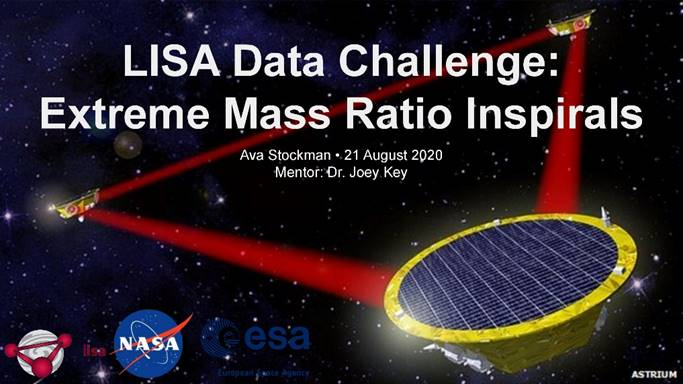
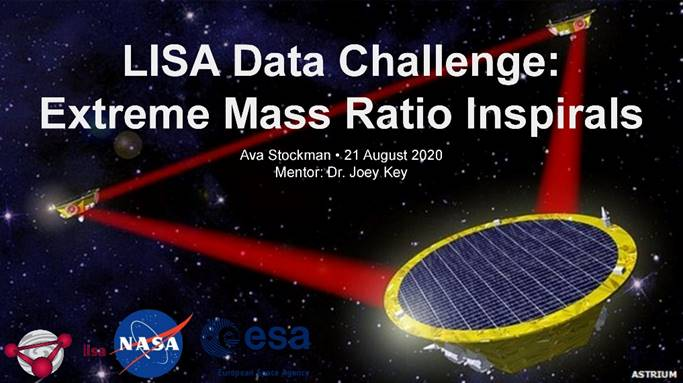
Add files via upload

diff --git a/Physical-Sciences_REU/index.htm b/Physical-Sciences_REU/index.htm
@@ -25,9 +25,9 @@ w\:* {behavior:url(#default#VML);}
   <o:Template>Normal</o:Template>
   <o:LastAuthor>Isabelle Heier</o:LastAuthor>
   <o:Revision>2</o:Revision>
-  <o:TotalTime>66</o:TotalTime>
-  <o:Created>2020-08-20T00:39:00Z</o:Created>
-  <o:LastSaved>2020-08-20T00:39:00Z</o:LastSaved>
+  <o:TotalTime>69</o:TotalTime>
+  <o:Created>2020-08-20T00:46:00Z</o:Created>
+  <o:LastSaved>2020-08-20T00:46:00Z</o:LastSaved>
   <o:Pages>1</o:Pages>
   <o:Words>393</o:Words>
   <o:Characters>2242</o:Characters>
@@ -1390,8 +1390,7 @@ font-family:"Times New Roman",serif;mso-fareast-font-family:"Times New Roman"'><
  <tr style='mso-yfti-irow:10;height:1.25pt'>
   <td width=1033 colspan=6 style='width:774.55pt;background:#D7D1FE;padding:
   0in 5.4pt 0in 5.4pt;height:1.25pt'>
-  <p class=MsoNormal align=center style='margin-top:3.0pt;margin-right:0in;
-  margin-bottom:3.0pt;margin-left:0in;text-align:center;line-height:normal'><span
+  <p class=MsoNormal align=center style='text-align:center;line-height:normal'><span
   style='mso-bookmark:_Hlk48552209'><span style='font-size:14.0pt;font-family:
   "Helvetica Neue";mso-fareast-font-family:"Helvetica Neue";mso-bidi-font-family:
   "Helvetica Neue";color:black;mso-color-alt:windowtext;background:lightyellow;
@@ -1627,8 +1626,7 @@ font-family:"Times New Roman",serif;mso-fareast-font-family:"Times New Roman"'><
  <tr style='mso-yfti-irow:20;height:1.25pt'>
   <td width=1033 colspan=6 style='width:774.55pt;background:#D7D1FE;padding:
   0in 5.4pt 0in 5.4pt;height:1.25pt'>
-  <p class=MsoNormal align=center style='margin-top:3.0pt;margin-right:0in;
-  margin-bottom:3.0pt;margin-left:0in;text-align:center;line-height:normal'><span
+  <p class=MsoNormal align=center style='text-align:center;line-height:normal'><span
   style='mso-bookmark:_Hlk48552209'><span style='font-size:14.0pt;font-family:
   "Helvetica Neue";mso-fareast-font-family:"Helvetica Neue";mso-bidi-font-family:
   "Helvetica Neue";color:black;mso-color-alt:windowtext;background:lightyellow;
@@ -1739,16 +1737,15 @@ font-family:"Times New Roman",serif;mso-fareast-font-family:"Times New Roman"'><
  <tr style='mso-yfti-irow:25;height:1.25pt'>
   <td width=1033 colspan=6 style='width:774.55pt;background:#D7D1FE;padding:
   0in 5.4pt 0in 5.4pt;height:1.25pt'>
-  <p class=MsoNormal align=center style='margin-top:3.0pt;margin-right:0in;
-  margin-bottom:3.0pt;margin-left:0in;text-align:center;line-height:normal'><span
+  <p class=MsoNormal align=center style='text-align:center;line-height:normal'><span
   style='mso-bookmark:_Hlk48552209'><span style='font-size:14.0pt;font-family:
   "Helvetica Neue";mso-fareast-font-family:"Helvetica Neue";mso-bidi-font-family:
   "Helvetica Neue";color:black;mso-color-alt:windowtext;background:lightyellow;
   mso-ansi-language:EN-US;mso-no-proof:yes'><!--[if gte vml 1]><v:shape id="Picture_x0020_8"
-   o:spid="_x0000_i1028" type="#_x0000_t75" style='width:512.25pt;height:4in;
+   o:spid="_x0000_i1028" type="#_x0000_t75" style='width:512.25pt;height:287.25pt;
    visibility:visible;mso-wrap-style:square'>
-   <v:imagedata src="index_files/image015.jpg" o:title=""/>
-  </v:shape><![endif]--><![if !vml]><img border=0 width=683 height=384
+   <v:imagedata src="index_files/image015.jpg" o:title="" cropbottom="164f"/>
+  </v:shape><![endif]--><![if !vml]><img border=0 width=683 height=383
   src="index_files/image016.jpg" v:shapes="Picture_x0020_8"><![endif]></span></span><span
   style='mso-bookmark:_Hlk48552209'></span><span style='mso-bookmark:_Hlk48552209'><span
   style='font-size:14.0pt;font-family:"Helvetica Neue";mso-fareast-font-family:
@@ -1935,8 +1932,7 @@ font-family:"Times New Roman",serif;mso-fareast-font-family:"Times New Roman"'><
  <tr style='mso-yfti-irow:33;height:1.25pt'>
   <td width=1033 colspan=6 style='width:774.55pt;background:#D7D1FE;padding:
   0in 5.4pt 0in 5.4pt;height:1.25pt'>
-  <p class=MsoNormal align=center style='margin-top:3.0pt;margin-right:0in;
-  margin-bottom:3.0pt;margin-left:0in;text-align:center;line-height:normal'><span
+  <p class=MsoNormal align=center style='text-align:center;line-height:normal'><span
   style='mso-bookmark:_Hlk48552209'><span style='font-size:14.0pt;font-family:
   "Helvetica Neue";mso-fareast-font-family:"Helvetica Neue";mso-bidi-font-family:
   "Helvetica Neue";color:black;mso-color-alt:windowtext;background:lightyellow;
@@ -1960,15 +1956,15 @@ font-family:"Times New Roman",serif;mso-fareast-font-family:"Times New Roman"'><
   line-height:normal'><span style='mso-bookmark:_Hlk48552209'><span
   style='font-size:14.0pt;font-family:"Helvetica Neue";mso-fareast-font-family:
   "Helvetica Neue";mso-bidi-font-family:"Helvetica Neue";color:black;
-  mso-color-alt:windowtext;background:lightyellow;mso-ansi-language:EN-US'>Faculty
-  Advisor:</span></span><span style='mso-bookmark:_Hlk48552209'><span
-  style='font-size:14.0pt;font-family:"Helvetica Neue";mso-fareast-font-family:
-  "Helvetica Neue";mso-bidi-font-family:"Helvetica Neue";background:lightyellow;
-  mso-ansi-language:EN-US'><o:p></o:p></span></span></p>
+  mso-color-alt:windowtext;background:#D7D1FE;mso-ansi-language:EN-US'>Faculty
+  Advisor:</span></span><span style='mso-bookmark:_Hlk48552209'></span><span
+  style='mso-bookmark:_Hlk48552209'><span style='font-size:14.0pt;font-family:
+  "Helvetica Neue";mso-fareast-font-family:"Helvetica Neue";mso-bidi-font-family:
+  "Helvetica Neue";background:lightyellow;mso-ansi-language:EN-US'><o:p></o:p></span></span></p>
   <p class=MsoNormal align=center style='text-align:center;line-height:normal'><span
   style='mso-bookmark:_Hlk48552209'><span style='font-size:14.0pt;font-family:
   "Helvetica Neue";mso-fareast-font-family:"Helvetica Neue";mso-bidi-font-family:
-  "Helvetica Neue";color:black;mso-color-alt:windowtext;background:lightyellow;
+  "Helvetica Neue";color:black;mso-color-alt:windowtext;background:#D7D1FE;
   mso-ansi-language:EN-US'>Dr. Joey Key, UWB School of STEM</span></span><span
   style='mso-bookmark:_Hlk48552209'></span><span style='mso-bookmark:_Hlk48552209'><span
   style='font-size:16.0pt;font-family:"Times New Roman",serif;mso-fareast-font-family:
